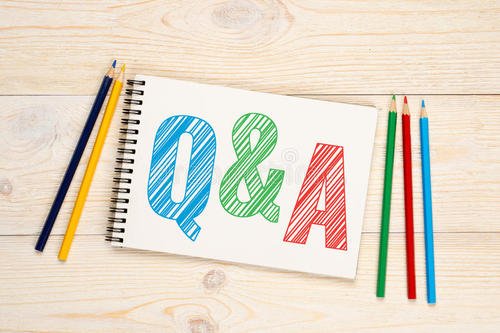
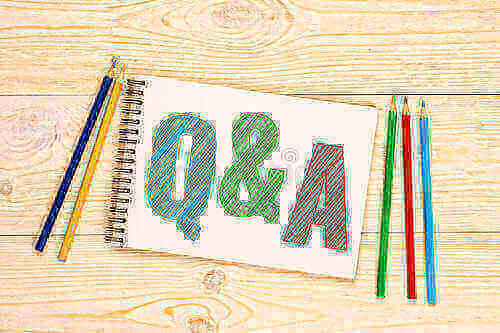
add img compress

diff --git a/.vuepress/plugins/image-compress.js b/.vuepress/plugins/image-compress.js
@@ -1,60 +1,45 @@
 
 //5n2NCSj2zzbwRxJQ316bSzbPFyKd8VfF
-
+// 压缩并替换当前文件
 const tinify = require('tinify');
 const fs = require('fs');
 const path = require('path');
+const dest = '../public'
+const ProgressBar = require('./ProgressBar');
+const Bar = new ProgressBar();
+
 // API Key
 tinify.key = '5n2NCSj2zzbwRxJQ316bSzbPFyKd8VfF';
 
 // 执行图片压缩任务，返回promise对象
-const task = file => {
-    const source = tinify.fromFile(file.fromFile);
-    source.toFile(file.toFile).catch(err => {
-       // if not support , cp file
-       err.message && console.log('file not supported')
-       console.log('===> copy file...')
-       fs.copyFile(file.fromFile,file.toFile,function(err){
-        if(err) console.log('something wrong was happened')
-        else console.log('copy file succeed');
-      })
+const task = path => {
+    const source = tinify.fromFile(path);
+    source.toFile(path).catch(() => {
+      Bar.done();
     });
     return source._url;
 }
-// 通过输入文件夹和输出文件夹，返回一个数组
-const fromDir = (inDir, outDir, _files = []) => {
-    const files = fs.readdirSync(inDir);
-    for (let file of files) {
-        const filePath = `${inDir}/${file}`;
-        const toFilePath = `${outDir}/${file}`;
-        if (fs.statSync(filePath).isDirectory()) {
-            fromDir(filePath, toFilePath, _files)
-        } else {
-            try {
-                fs.accessSync(toFilePath);
-            } catch (err) {
-                _files.push({
-                    fromFile: filePath,
-                    toFile: toFilePath,
-                });
-            }
-        }
+
+
+const compress = () => {
+  const files = fs.readdirSync(dest) // 返回文件名列表
+  const pwd = fs.realpathSync(process.cwd());
+  Bar.init(files.length)
+  // 只考虑第一层 未第归
+  for(const [index,file] of files.entries()){
+    try {
+      const filePath = `${path.resolve(pwd, dest)}/${file}`
+      fs.accessSync(filePath);
+      // console.log(fs.accessSync(filePath))
+      task(filePath)
+      Bar.update(index)
+    } catch (err) {
+       // process.stdout.write('\n');
+       console.error(err);
+       // process.exit();
+
     }
-    return _files;
+  }
 }
 
-const rootDir = fs.realpathSync(process.cwd());
-const screenshotDir = path.resolve(rootDir, '../public');
-const screenshotOutDir = path.resolve(rootDir, '../public/images');
-
-const files = fromDir(screenshotDir, screenshotOutDir);
-console.log(files)
-// 遍历数组，顺序执行各任务
-if (files.length === 0) {
-    return;
-}
-let current = task(files[0]);
-for (let i = 1; i < files.length; i++) {
-    console.log('compressing' + files[i])
-    current = current.then(task(files[i])).catch(err => console.log(err.message));
-}
+compress()

diff --git a/.vuepress/plugins/ProgressBar.js b/.vuepress/plugins/ProgressBar.js
@@ -1,0 +1,74 @@
+const chalk = require("chalk");
+const readline = require('readline');
+module.exports = class ProgressBar {
+	constructor() {
+		this.total;
+		this.current;
+		this.cursor;
+		this.title;
+		this.bar_length;
+		this.cursorPos;
+		this.barStartPos;
+		this.barEndPos;
+		this.percentage;
+		this.dur;
+	}
+
+	init(total) {
+		this.total = total;
+		this.current = 0;
+		this.cursor = 1;
+		this.title = `Compressing`;
+		this.bar_length = process.stdout.columns - this.title.length*3;
+		this.cursorPos = this.title.length + this.cursor
+		this.barStartPos = this.title.length + 2 
+		this.barEndPos = this.barStartPos + this.bar_length
+		this.percentage = ` ${this.current}/${this.total} `
+		this.dur = 0
+    
+		process.stdout.write(chalk.bgMagenta(this.title))
+		readline.cursorTo(process.stdout, this.title.length + 2)
+		for (let i = 0; i < this.bar_length; i++) {
+				process.stdout.write(chalk.bgWhiteBright('_'))
+		}
+		process.stdout.write(this.percentage)
+		const loading = setInterval(() => {
+			readline.cursorTo(process.stdout, this.barEndPos + 9)
+			process.stdout.write(`${++this.dur}s`)
+			if(this.current > this.total || this.current === this.total) {
+				clearInterval(loading)
+			}
+		}, 50 );
+	  }
+
+	update(current) {
+		const progress = (this.bar_length/this.total).toFixed(0)
+		let char = '_'
+
+		this.current = current
+		this.cursor = this.current* progress
+		this.bar_length = process.stdout.columns - this.title.length*3;
+		this.cursorPos = this.title.length + this.cursor
+		this.barStartPos = this.title.length + 2 
+		this.barEndPos = this.barStartPos + this.bar_length
+		this.percentage = ` ${this.current}/${this.total} `
+
+		readline.cursorTo(process.stdout, this.cursorPos + 1 ) // readline.cursorTo(stream, x[, y][, callback])
+
+		process.stdout.write(chalk.bgGreenBright(char.repeat(progress)));
+		readline.cursorTo(process.stdout, this.barEndPos)
+		process.stdout.write(this.percentage)
+		if(this.current > this.total || this.current === this.total) {
+			readline.clearLine()
+			process.stdout.write('\n');
+			process.stdout.write(chalk.blackBright(` ${chalk.blueBright('✓')} Comporessed successfully in ${this.dur}s`));
+			process.stdout.write('\n');
+			process.exit();
+		}
+	}
+
+	done() {
+		this.cursor = this.bar_length + 1
+		this.update(this.total)
+	}
+};

diff --git a/.vuepress/theme/Archives.vue b/.vuepress/theme/Archives.vue
@@ -25,7 +25,7 @@
       },
       computed: {
         pages() {
-          console.log(this.$site.pages.filter(e => e.id === 'post'))
+          // console.log(this.$site.pages.filter(e => e.id === 'post'))
          return this.$site.pages.filter(e => e.id === 'post').sort((a,b) => new Date(b.frontmatter.date) - new Date(a.frontmatter.date))
         },
         archives() {
@@ -41,13 +41,13 @@
               map.set(Month, [].concat(e))
             }
           })
-          console.log(map)
+          // console.log(map)
           return map
         },
       },
       methods: {
         handleClick(e) {
-          console.log(e)
+          // console.log(e)
           // this.$router.push('/')
         },
         handleMoment(date) {

diff --git a/.vuepress/theme/Layout.vue b/.vuepress/theme/Layout.vue
@@ -26,8 +26,8 @@ import moment from '../utils/moment'
 import ListArchives from "../components/ListArchives"
  export default {
    mounted() {
-       console.log('this.$page')
-       console.log(this.$page)
+       // console.log('this.$page')
+       // console.log(this.$page)
    },
    computed: {
      site() {

diff --git a/.vuepress/components/Breadcrumbs.vue b/.vuepress/components/Breadcrumbs.vue
@@ -15,7 +15,7 @@
         }
       },
       mounted() {
-        console.log(this.$page)
+        // console.log(this.$page)
       },
       methods: {
         handlePageClick(index) {

diff --git a/.vuepress/components/Header.vue b/.vuepress/components/Header.vue
@@ -48,7 +48,7 @@ export default {
       this.sideOn = false
     },
     sideOn() {
-      console.log(1)
+      // console.log(1)
     }
   },
   mounted() {

diff --git a/_posts/2020-3-18-learn-from-vuepress-source-code.md b/_posts/2020-3-18-learn-from-vuepress-source-code.md
@@ -1,0 +1,158 @@
+---
+title: Learn front-end engineering from vuepress source code
+date: 2020-3-18 11:06 AM
+tags:
+  - node
+  - webpack
+categories:
+  - frontend
+comments: true
+---
+
+when we execute _yarn build_, we can see a lots of thing have been done automaticly, let's check the source code step-by-step, see what is going on...
+
+```js
+wait Extracting site metadata...
+tip Apply local theme at /home/paul.xiao/Workspace/lab/paul-xiao.github.io/.vuepress/theme...
+warning An error was encountered in theme "/home/paul.xiao/Workspace/lab/paul-xiao.github.io/.vuepress/theme"
+tip Apply theme local ...
+tip Apply plugin container (i.e. "vuepress-plugin-container") ...
+tip Apply plugin @vuepress/register-components (i.e. "@vuepress/plugin-register-components") ...
+tip Apply plugin @vuepress/last-updated (i.e. "@vuepress/plugin-last-updated") ...
+tip Apply plugin @vuepress/nprogress (i.e. "@vuepress/plugin-nprogress") ...
+tip Apply plugin @vuepress/back-to-top (i.e. "@vuepress/plugin-back-to-top") ...
+tip Apply plugin @vuepress/medium-zoom (i.e. "@vuepress/plugin-medium-zoom") ...
+tip Apply plugin @vuepress/blog (i.e. "@vuepress/plugin-blog") ...
+warning Override existing page /.
+
+✔ Client
+  Compiled successfully in 21.97s
+
+✔ Server
+  Compiled successfully in 11.91s
+
+wait Rendering static HTML...
+success Generated static files in .vuepress/dist.
+```
+
+<!-- more -->
+
+#### deep dive **yarn build**
+
+1. init: wait Extracting site metadata...
+
+```js
+/**
+ * path: @vuepress/core/lib/index.js
+ * jobs: init createApp/build/dev methods
+ */
+
+async function build(options) {
+  if (process.env.NODE_ENV === undefined) {
+    process.env.NODE_ENV = "production";
+  }
+  const app = createApp(options);
+  await app.process(); // prepare the context of the current app. which contains loading pages and plugins, apply plugins, etc.
+  return app.build(); //build start
+}
+
+function createApp(options) {
+  logger.wait("Extracting site metadata...");
+  return new App(options);
+}
+```
+
+2. apply theme and plugins: tip Apply...
+
+```js
+/**
+ * path: @vuepress/core/lib/node/App.js
+ * jobs: Expose VuePressApp.
+ */
+
+   async process () {
+    await this.resolveConfigAndInitialize()
+    this.normalizeHeadTagUrls()
+    this.themeAPI = loadTheme(this) // logger.tip(`Apply local theme at ${chalk.gray(path)}...`)
+
+    this.resolveTemplates()
+    this.resolveGlobalLayout()
+
+    this.applyInternalPlugins()
+    this.applyUserPlugins()
+    this.pluginAPI.initialize()
+
+    this.markdown = createMarkdown(this)
+
+    await this.resolvePages()
+
+    await this.pluginAPI.applyAsyncOption('additionalPages', this)
+    await Promise.all(
+      this.pluginAPI.getOption('additionalPages').appliedValues.map(async (options) => {
+        await this.addPage(options) // logger.warn(`Override existing page ${chalk.yellow(page.path)}.`)
+      })
+    )
+    await this.pluginAPI.applyAsyncOption('ready')
+    await Promise.all([
+      this.pluginAPI.applyAsyncOption('clientDynamicModules', this),
+      this.pluginAPI.applyAsyncOption('enhanceAppFiles', this),
+      this.pluginAPI.applyAsyncOption('globalUIComponents', this)
+    ])
+  }
+```
+3. apply webpack configs: ✔ Client ...
+
+```js
+/**
+ * path: @vuepress/core/lib/node/build/index.js
+ * jobs: Prepare webpack config under build.
+ */
+prepareWebpackConfig () {
+    this.clientConfig = createClientConfig(this.context).toConfig()
+    this.serverConfig = createServerConfig(this.context).toConfig()
+
+    const userConfig = this.context.siteConfig.configureWebpack
+    if (userConfig) {
+      this.clientConfig = applyUserWebpackConfig(userConfig, this.clientConfig, false)
+      this.serverConfig = applyUserWebpackConfig(userConfig, this.serverConfig, true)
+    }
+  }  
+
+// progress bar
+if (!env.isDebug) {
+    const WebpackBar = require('webpackbar') // Elegant ProgressBar and Profiler for Webpack
+    config
+      .plugin('bar')
+      .use(WebpackBar, [{
+        name: 'Client',
+        color: '#41b883',
+        compiledIn: false
+      }])
+  }
+
+// figures : Unicode symbols with Windows CMD fallbacks
+
+import { bullet, tick, cross, pointerSmall, radioOff } from 'figures'
+
+```
+
+4. build: wait Rendering static HTML...
+
+```js
+/**
+ * path: @vuepress/core/lib/node/App.js
+ * jobs: Launch a build process with current app context
+ */
+async build () {
+    this.buildProcess = new BuildProcess(this)
+    await this.buildProcess.process()
+    await this.buildProcess.render() 
+    // render page : logger.wait('Rendering static HTML...') 
+    // DONE :  logger.success(`Generated static files in ${chalk.cyan(relativeDir)}.`)
+
+
+    return this
+  }
+
+```
+#### add self-define image-compress tool
